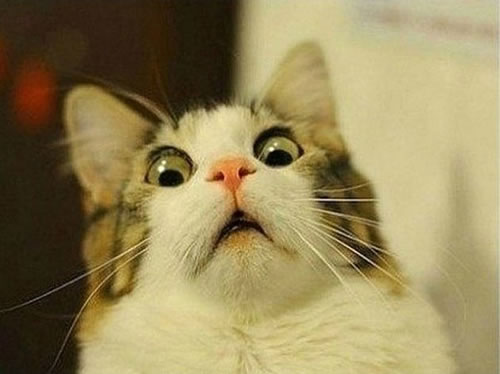
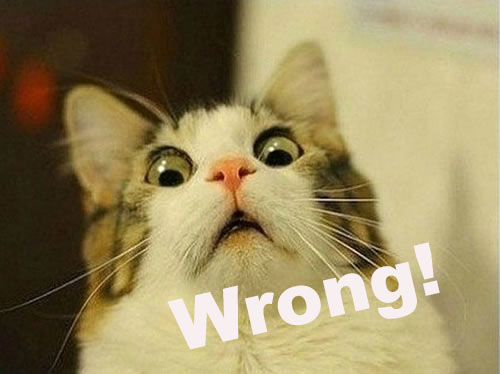
first version

Changed region(s): [[0.33, 0.6471, 0.9, 0.9412]]

diff --git a/scripts/main.js b/scripts/main.js
@@ -1,4 +1,94 @@
 
-function displayResult() {
-	document.getElementById("myHeader").innerHTML = "Have a nice day!";
+var colors = ["Blue", "Orange", "Yellow","Purple","Red","Green"];
+
+var i_color = [0,1,2,3,4,5]; // color index
+var i_button = [0,1,2,3]; // button index
+
+choose1 = document.getElementById("choose1");
+start = document.getElementById("start");
+target = document.getElementById("target");
+cat = document.getElementById("cat");
+button0 = document.getElementById("button0");
+button1 = document.getElementById("button1");
+button2 = document.getElementById("button2");
+button3 = document.getElementById("button3");
+cat.style.visibility="hidden";
+choose1.style.visibility="hidden";
+button0.style.visibility="hidden";
+button1.style.visibility="hidden";
+button2.style.visibility="hidden";
+button3.style.visibility="hidden";
+
+function setup() {
+	// window.setTimeout(failed, 4000);
+	start.style.visibility = "hidden";
+	choose1.style.visibility = "visible";
+	button0.style.visibility="visible";
+	button1.style.visibility="visible";
+	button2.style.visibility="visible";
+	button3.style.visibility="visible";
+	// Shuffle the random numbers
+	// Let i_color[0] be the right anwer
+	i_color = shuffle(i_color);
+	i_button = shuffle(i_button);
+	right_anwer = colors[i_color[0]];
+	// hint: choose color (0) or word (1)?
+	var hint = Math.floor(Math.random() * 2);
+	if (hint == 0) {
+		document.getElementById("choose2").innerHTML = "COLOR";
+		target.innerHTML = colors[Math.floor(Math.random() * colors.length)];
+		target.style.color = right_anwer;
+	}
+	else {
+		document.getElementById("choose2").innerHTML = "WORD";
+		target.innerHTML = right_anwer;
+		target.style.color = colors[Math.floor(Math.random() * colors.length)];
+	}
+	button0.innerHTML = colors[i_color[i_button[0]]];
+	button0.style.color = colors[Math.floor(Math.random() * colors.length)];
+	button1.innerHTML = colors[i_color[i_button[1]]];
+	button1.style.color = colors[Math.floor(Math.random() * colors.length)];
+	button2.innerHTML = colors[i_color[i_button[2]]];
+	button2.style.color = colors[Math.floor(Math.random() * colors.length)];
+	button3.innerHTML = colors[i_color[i_button[3]]];
+	button3.style.color = colors[Math.floor(Math.random() * colors.length)];
 }
+function failed() {
+	cat.style.visibility="visible";
+	setup();
+}
+function b0_click() {
+	if (button0.innerHTML === right_anwer)
+		cat.style.visibility="hidden";
+	else{
+		cat.style.visibility="visible";
+	}
+	setup();
+}
+function b1_click() {
+	if (button1.innerHTML === right_anwer)
+		cat.style.visibility="hidden";
+	else
+		cat.style.visibility="visible";
+	setup();
+}
+function b2_click() {
+	if (button2.innerHTML === right_anwer)
+		cat.style.visibility="hidden";
+	else
+		cat.style.visibility="visible";
+	setup();
+}
+function b3_click() {
+	if (button3.innerHTML === right_anwer)
+		cat.style.visibility="hidden";
+	else
+		cat.style.visibility="visible";
+	setup();
+}
+// shuffle the numbers
+function shuffle(o) {
+    for(var j, x, i = o.length; i; j = parseInt(Math.random() * i), x = o[--i], o[i] = o[j], o[j] = x);
+    return o;
+};
+

diff --git a/styles/style.css b/styles/style.css
@@ -1,6 +1,76 @@
 html {
   background-color: #DCDCDC;
 }
-p {
-	color: red;
+.button {
+    color: white;
+    background-color: #C0C0C0;
+    text-align: center;
+    font-size: 40px;
+    border-radius: 8px;
+    border: 2px solid white;
+    -webkit-transition-duration: 0.4s; /* Safari */
+    transition-duration: 0.4s;
+    height: 80px;
+    width: 160px;
+    font-weight: bold;
+}
+.button:hover {
+    background-color: #DCDCDC;
+}
+#button0 {
+    position:absolute;
+    top: 5%;
+    left: 5%;
+}
+#button1 {
+    position:absolute;
+    bottom: 5%;
+    left: 5%;
+}
+#button2 {
+    position:absolute;
+    top: 5%;
+    right: 5%;
+}
+#button3 {
+    position:absolute;
+    bottom: 5%;
+    right: 5%;
+}
+#target {
+	position:absolute;
+    top: 40%;
+    left: 50%;
+    transform: translate(-50%, -50%);
+    font-size: 140px;
+    font-weight: bold;
+}
+#choose1 {
+	position:absolute;
+    top: 30%;
+    left: 50%;
+    transform: translate(-50%, -50%);
+    font-size: 60px;
+    color:#B8860B;
+}
+#choose2 {
+    font-size: 70px;
+    font-style: oblique;
+}
+#start {
+    color: white;
+    background-color: #A9A9A9;
+    text-align: center;
+    font-size: 40px;
+    border-radius: 8px;
+    border: 2px solid #4CAF50; /* Green */
+    -webkit-transition-duration: 0.4s; /* Safari */
+    transition-duration: 0.4s;
+    height: 80px;
+    width: 160px;
+    font-weight: bold;
+    position:absolute;
+    bottom: 15%;
+    left: 50%;
+    transform: translate(-50%, -50%);
 }

diff --git a/index.html b/index.html
@@ -6,18 +6,14 @@
     <link href="styles/style.css" rel="stylesheet" type="text/css">
   </head>
   <body>
-  	<h1 id="myHeader">Hello World!</h1>
-	<button onclick="displayResult()">Change text</button>
-
-	<h1>Color Word Test</h1>
-	<h2><a href="http://psi.cse.tamu.edu/people/zelun-wang/">Author</a></h2>
-	<ul> 
-	  <li>technologists</li>
-	  <li>thinkers</li>
-	  <li>builders</li>
-	</ul>
-  	<p>This is a very simple HTML document</p>
-    <img src="images/cat.jpg" alt="My test image">
+    <h1 id="target"></h1>
+    <h2 id="choose1">Choose <span id="choose2">Important</span></h2>
+    <button class="start" id="start" onclick="setup()">Start</button>
+    <button class="button" id="button0" onclick="b0_click()"></button>
+	  <button class="button" id="button1" onclick="b1_click()"></button>
+    <button class="button" id="button2" onclick="b2_click()"></button>
+    <button class="button" id="button3" onclick="b3_click()"></button>
+    <img id="cat" src="images/cat.jpg" alt="Image">
     <script src="scripts/main.js"></script>
   </body>
 </html>
